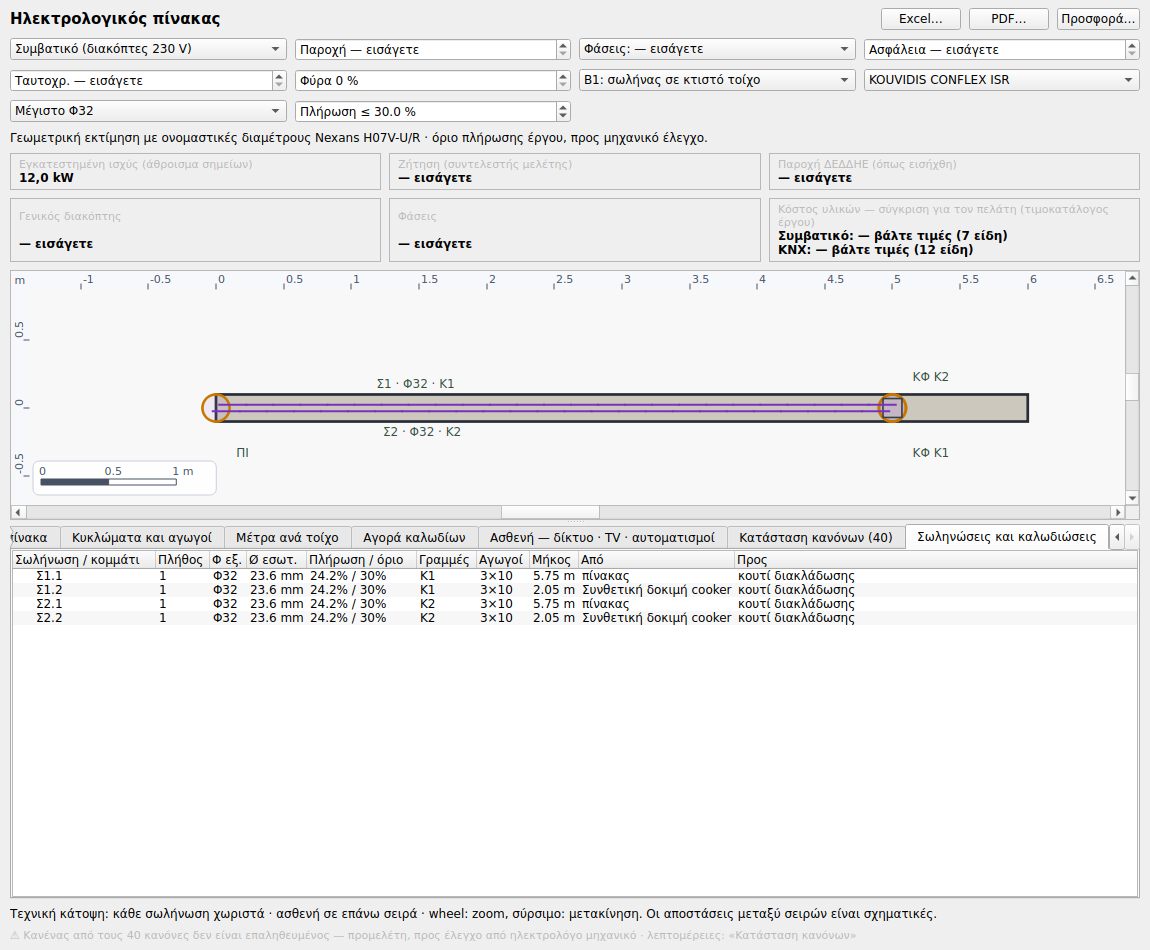
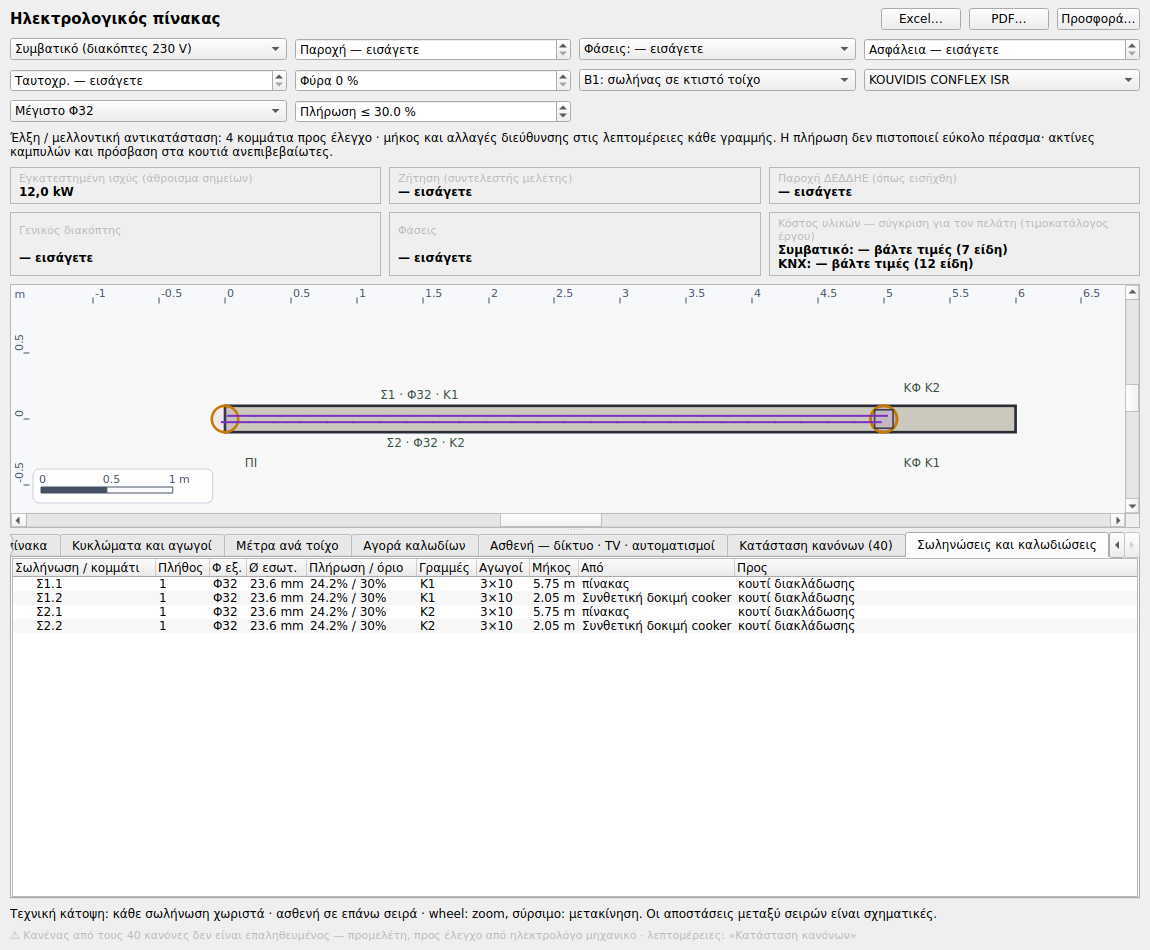
Separate geometric fill from pulling and future replacement review
Owner clarification: free space must support pulling and future replacement. Report model route length and 3D deflection per segment, explicitly unknown bend radii and access. Remove undocumented two-bend threshold: low fill is not a pulling certificate. Two regression failures before fix; targeted 13 passed, full final suite running. No physical pulling-force or code-compliance claim.

diff --git a/archforge/mep/conduits.py b/archforge/mep/conduits.py
@@ -9,7 +9,6 @@ from __future__ import annotations
 import math
 
 SIZES=(16,20,25,32,40,50)
-MAX_BENDS=2  # Existing study flag only; no capacity/count multiplier.
 OUTDOOR_MIN=50  # Existing underground study choice; not a verified code clause.
 OUTDOOR_SIZES=(50,63)
 RULE=('Γεωμετρική πλήρωση από εξωτερικές ονομαστικές διαμέτρους μονωμένων αγωγών Nexans H07V-U/R '
@@ -68,10 +67,33 @@ def _key(p):
     return (round(p[0], 3), round(p[1], 3), round(p[2], 3))
 
 
-def _direction(a, b):
-    d = [b[i] - a[i] for i in range(3)]
-    n = math.sqrt(sum(v * v for v in d)) or 1.0
-    return tuple(round(v / n, 6) for v in d)
+def pulling_review(points, *, label=''):
+    """Measured route geometry, not a pulling-force or replaceability certificate.
+
+    Model polylines have no installed bend radii, friction data, pulling-force
+    limits or confirmed access. No undocumented length/angle threshold turns
+    this into a pass. Repeated and collinear router vertices add no bend.
+    """
+    vectors=[];length=0.
+    for a,b in zip(points,points[1:]):
+        vector=tuple(float(y)-float(x) for x,y in zip(a,b))
+        distance=math.sqrt(sum(v*v for v in vector))
+        length+=distance
+        if distance>0:vectors.append(tuple(v/distance for v in vector))
+    angles=[]
+    for a,b in zip(vectors,vectors[1:]):
+        dot=max(-1.,min(1.,sum(x*y for x,y in zip(a,b))))
+        cross=(a[1]*b[2]-a[2]*b[1],a[2]*b[0]-a[0]*b[2],a[0]*b[1]-a[1]*b[0])
+        angle=math.degrees(math.atan2(math.sqrt(sum(v*v for v in cross)),dot))
+        if angle>1e-7:angles.append(angle)  # floating point noise only, not an installation limit
+    total=sum(angles)
+    summary=(f'{label+": " if label else ""}{length:.2f} m · {len(angles)} αλλαγές διεύθυνσης '
+             f'· άθροισμα {total:g}° — έλξη/αντικατάσταση προς έλεγχο. '
+             'Δεν έχουν επαληθευτεί ακτίνες καμπυλών, τριβές/όρια έλξης και πρόσβαση στα άκρα/κουτιά. '
+             'Η πλήρωση δεν πιστοποιεί εύκολη αντικατάσταση.')
+    return {'length_m':length,'turn_angles_deg':angles,'total_turn_deg':total,
+            'bend_radii_m':None,'accessibility_verified':False,
+            'replacement_status':'ENGINEER_REVIEW','summary':summary}
 
 
 def conduit_map(doc, route=None):
@@ -186,8 +208,8 @@ def conduit_map(doc, route=None):
                     pipe=bundle['pipe'];line_ids=pipe['lines'];wire_counts={}
                     for cid in line_ids:
                         for section,count in sections[cid].items():wire_counts[section]=wire_counts.get(section,0)+count
-                    directions=[_direction(a,b) for a,b in zip(chain,chain[1:])]
-                    bends=sum(a!=b for a,b in zip(directions,directions[1:]))
+                    pulling=pulling_review(chain,label=f'Σ{n}.{part}')
+                    bends=len(pulling['turn_angles_deg'])
                     selected=bundle['profile'];profile=CONDUIT_PROFILES[selected]
                     piece={'id':f'Σ{n}.{part}','conduit':f'Σ{n}','from':name_of(chain[0]),'to':name_of(chain[-1]),
                            'a':chain[0],'b':chain[-1],'points':chain,
@@ -199,10 +221,9 @@ def conduit_map(doc, route=None):
                            'lines':[cid if cid in circuits else 'επιστροφή διακόπτη' for cid in line_ids],
                            'conductors':' + '.join(f'{count}×{section:g}'.replace('.',',') for section,count in sorted(wire_counts.items())),
                            'wire_sources':{s:WIRE_DIAMETERS[s]['source'] for s in wire_counts},
-                           'status':'ENGINEER_REVIEW'}
+                           'pulling':pulling,'status':'ENGINEER_REVIEW'}
                     pieces.append(piece)
-                    if bends>MAX_BENDS:
-                        review.append(f"{piece['id']}: {bends} καμπύλες — έλεγχος έλξης/κουτιών, δεν δημιουργείται δεύτερος σωλήνας λόγω καμπυλών")
+                    review.append(pulling['summary'])
     by_size={}
     for p in pieces:by_size[p['dn']]=round(by_size.get(p['dn'],0)+p['length_m'],2)
     warnings=[f'{cid}: λείπει τεκμηριωμένη διάμετρος ή η γραμμή δεν χωρά στη μέγιστη επιλεγμένη διάμετρο'

diff --git a/tests/test_geometric_conduit_fill.py b/tests/test_geometric_conduit_fill.py
@@ -104,6 +104,8 @@ def test_board_limit_and_diameter_are_real_undoable_project_settings():
         w.stack.undo();tab.refresh();assert tab.result['conduit_map']['conduits']==2
         headers=[tab.conduits.headerItem().text(i) for i in range(tab.conduits.columnCount())]
         assert 'Πλήρωση / όριο' in headers and 'Ø εσωτ.' in headers
+        assert 'αντικατάσταση' in tab.pipe_note.text()
+        assert 'αλλαγές διεύθυνσης' in tab.conduits.topLevelItem(0).toolTip(7)
         before=w.doc.to_dict();tab.technical_plan.redraw();assert w.doc.to_dict()==before
     finally:
         w._mark_clean();w.close();app.processEvents()
@@ -117,3 +119,32 @@ def test_invalid_project_limit_is_rejected_without_changing_the_document():
         with pytest.raises(ValueError):
             stack.execute(AddEntity(Entity('electrical_point',dict(x=0,y=0,z=0,point_type='panel',conduit_fill_limit=value))))
         assert doc.to_dict()==before
+
+
+def test_pulling_review_reports_route_geometry_without_certifying_replacement():
+    from archforge.mep.conduits import pulling_review
+    # Synthetic route: collinear router vertices do not add bends; a 3D turn does.
+    r=pulling_review([(0,0,0),(1,0,0),(1,0,0),(2,0,0),(2,1,0),(2,1,1)])
+    assert r['length_m']==pytest.approx(4)
+    assert r['turn_angles_deg']==pytest.approx([90,90])
+    assert r['total_turn_deg']==pytest.approx(180)
+    assert r['replacement_status']=='ENGINEER_REVIEW'
+    assert r['bend_radii_m'] is None and r['accessibility_verified'] is False
+    assert 'αντικατάσταση' in r['summary']
+
+
+def test_low_fill_straight_conduit_still_needs_pulling_and_access_review():
+    from archforge.core.commands import AddEntity,CommandStack
+    from archforge.core.model import Document,Entity
+    from archforge.mep.conduits import conduit_map
+    doc=Document();st=CommandStack(doc)
+    for typ,x in [('panel',0),('socket',3)]:
+        st.execute(AddEntity(Entity('electrical_point',dict(x=x,y=0,z=0,point_type=typ))))
+    m=conduit_map(doc)
+    assert m['pieces'] and len(m['review'])==len(m['pieces'])
+    for p in m['pieces']:
+        assert p['fill']<p['fill_limit']
+        assert p['pulling']['replacement_status']=='ENGINEER_REVIEW'
+        assert p['pulling']['length_m']==pytest.approx(sum(__import__('math').dist(a,b)
+            for a,b in zip(p['points'],p['points'][1:])))
+        assert p['pulling']['summary'] in m['review']

diff --git a/archforge/ui/electrical_board_tab.py b/archforge/ui/electrical_board_tab.py
@@ -289,11 +289,13 @@ class BoardTab(QWidget):
             ids += [cid.split(':',1)[1] for cid in p['line_ids'] if cid.startswith('switch:')]
             item.setData(0,Qt.ItemDataRole.UserRole,ids)
             item.setToolTip(0,f"{p['profile_name']} · {p['profile_source']}\nΟι ίδιες σωληνώσεις εμφανίζονται στην κάτοψη, στο 3D και στην επιμέτρηση. Ονομαστικές διαστάσεις αγωγών· έλεγχος εγκατάστασης εκκρεμεί.")
+            for column in (0,4,7,8,9):
+                item.setToolTip(column,item.toolTip(column)+'\n'+p['pulling']['summary'])
             self.conduits.addTopLevelItem(item)
         if cmap['warnings']:
             self.warnings.setText(self.warnings.text()+'\n'+'\n'.join(cmap['warnings']))
         if cmap['review']:
-            self.pipe_note.setText(f"Γεωμετρική εκτίμηση με ονομαστικές διαμέτρους Nexans H07V-U/R · {len(cmap['review'])} κομμάτια χρειάζονται έλεγχο καμπυλών/έλξης. Το όριο έργου δεν είναι κανονιστική επαλήθευση.")
+            self.pipe_note.setText(f"Έλξη / μελλοντική αντικατάσταση: {len(cmap['review'])} κομμάτια προς έλεγχο · μήκος και αλλαγές διεύθυνσης στις λεπτομέρειες κάθε γραμμής. Η πλήρωση δεν πιστοποιεί εύκολο πέρασμα· ακτίνες καμπυλών και πρόσβαση στα κουτιά ανεπιβεβαίωτες.")
         else:
             self.pipe_note.setText('Γεωμετρική εκτίμηση με ονομαστικές διαμέτρους Nexans H07V-U/R · όριο πλήρωσης έργου, προς μηχανικό έλεγχο.')
 

diff --git a/archforge/ui/conduit_map.py b/archforge/ui/conduit_map.py
@@ -21,11 +21,18 @@ def show(window):
                   (f"{p['count']}×" if p["count"] > 1 else "") + f"Φ{p['dn']}" + (" διπλού δομ." if p["outdoor"] else ""),
                   f"{p['inner_mm']:g} mm", str(p["bends"]), ", ".join(p["lines"]), p["conductors"], f"{p['fill'] * 100:.1f}%", f"{p['fill_limit'] * 100:g}%", p["profile_name"])
         for j, v in enumerate(values):
-            table.setItem(i, j, QTableWidgetItem(v))
+            item=QTableWidgetItem(v)
+            item.setToolTip(p['pulling']['summary'])
+            table.setItem(i, j, item)
     table.resizeColumnsToContents()
     layout.addWidget(table)
-    for w in m["warnings"] + m["review"]:
+    for w in m["warnings"]:
         layout.addWidget(QLabel("⚠ " + w))
+    if m['review']:
+        note=QLabel(f"Έλξη / μελλοντική αντικατάσταση: {len(m['review'])} κομμάτια προς έλεγχο. "
+                    "Μήκος και αλλαγές διεύθυνσης στις λεπτομέρειες κάθε γραμμής. "
+                    "Η πλήρωση δεν πιστοποιεί εύκολο πέρασμα ή πρόσβαση στα κουτιά.")
+        note.setWordWrap(True);layout.addWidget(note)
     note = QLabel(m["rule"])
     note.setWordWrap(True)
     layout.addWidget(note)

diff --git a/docs/CONDUIT_GEOMETRIC_FILL.md b/docs/CONDUIT_GEOMETRIC_FILL.md
@@ -47,9 +47,24 @@
 διάμετρος αγωγού, εμφανίζεται ως μη διαστασιολογημένη· δεν παράγεται πλασματική σωλήνωση.
 Οι προειδοποιήσεις εμφανίζονται στον πίνακα και συνοδεύουν την τεκμηρίωση επιμέτρησης.
 
-Οι καμπύλες και η δυνατότητα έλξης είναι ξεχωριστός έλεγχος μελέτης. Πολλές καμπύλες δεν
-δημιουργούν από μόνες τους δεύτερο, άδειο σωλήνα. Ο παλιός δείκτης ελέγχου δύο καμπυλών
-παραμένει ως επισήμανση προς μελετητή, χωρίς αύξηση πλήθους ή αυτόματη δήλωση συμμόρφωσης.
+Ο ιδιοκτήτης διευκρίνισε ότι σκοπός του ελεύθερου χώρου είναι το εύκολο πέρασμα και η
+μελλοντική αντικατάσταση των γραμμών. Η πλήρωση από μόνη της δεν πιστοποιεί αυτές τις δυνατότητες.
+Σε **κάθε** κομμάτι καταγράφονται το γεωμετρικό μήκος, οι γωνίες αλλαγής διεύθυνσης στο 3D
+και το άθροισμά τους, μεταξύ των άκρων που προβλέπει ο χάρτης. Επαναλαμβανόμενοι ή συνευθειακοί
+κόμβοι του router δεν μετριούνται ως καμπύλες. Οι γωνίες είναι αλλαγές διεύθυνσης της πολυγραμμής,
+όχι πραγματικές εγκατεστημένες ακτίνες κάμψης ή υπολογισμός δύναμης έλξης.
+
+Η ένδειξη **έλξη / μελλοντική αντικατάσταση προς έλεγχο** εμφανίζεται ακόμη και για ευθύγραμμο,
+λίγο γεμάτο σωλήνα. Στις λεπτομέρειες κάθε γραμμής του υπάρχοντος πίνακα εμφανίζονται τα παραπάνω
+στοιχεία. Οι πραγματικές ακτίνες καμπυλών, τριβές/όρια έλξης και προσβασιμότητα των άκρων/κουτιών
+δεν έχουν επαληθευτεί. Δεν επιβάλλεται αυθαίρετο μέγιστο μήκος ή άθροισμα γωνιών. Καταργήθηκε
+η παλιά επισήμανση μόνο πάνω από δύο καμπύλες· δεν υπήρχε τεκμηρίωση για να θεωρούνται οι υπόλοιπες
+διαδρομές ελεγμένες. Πολλές καμπύλες δεν δημιουργούν από μόνες τους δεύτερο, άδειο σωλήνα.
+
+Η προτίμηση του ιδιοκτήτη για Φ16/Φ20/Φ25 σε τοίχους καταγράφεται ως πρακτική οικονομίας,
+όχι καθολικό κανονιστικό μέγιστο. Η τρέχουσα ρύθμιση μέγιστου Φ αφορά συνολικά το επιλεγμένο
+εσωτερικό προφίλ, όχι ξεχωριστό αυτόματο όριο για τοίχους/παροχές. Δεν υλοποιείται ακόμη
+βελτιστοποίηση συνολικού κόστους σωλήνων, συμβατών κουτιών/εξαρτημάτων και εργασίας.
 
 ## Πηγές διαστάσεων
 

diff --git a/docs/HANDOFF.md b/docs/HANDOFF.md
@@ -1,5 +1,13 @@
 # Πραγματική γεωμετρική πλήρωση σωληνώσεων 30% (24/10/2026, #147)
 
+- Νεότερη διευκρίνιση ιδιοκτήτη: ζητούμενο εύκολη έλξη και μελλοντική αντικατάσταση, όχι μόνο χωρητικότητα.
+  Κάθε piece διαθέτει pulling review: πραγματικό μήκος πολυγραμμής, γωνίες αλλαγής διεύθυνσης/άθροισμα,
+  ENGINEER_REVIEW ανεξαρτήτως πλήρωσης. Χωρίς εικονική πιστοποίηση πρόσβασης κουτιών ή ακτίνων/τριβών.
+  Αφαιρέθηκε ο παλιός αυθαίρετος δείκτης >2 καμπυλών. Λεπτομέρειες στο tooltip υπάρχοντος πίνακα/χάρτη.
+  Δύο νέες regression περιπτώσεις απέτυχαν πριν τη διόρθωση· 13 στοχευμένες πέρασαν μετά.
+  Η προτίμηση Φ25 στους τοίχους δεν έγινε υποχρεωτικό μέγιστο ούτε αυτόματη αλλαγή προφίλ προϊόντος.
+  Δεν υπάρχει ακόμη μελέτη δυνάμεων έλξης/ακτίνων, επιβεβαίωση πρόσβασης ή πλήρης οικονομική σύγκριση.
+
 - Ο ιδιοκτήτης διευκρίνισε: δεύτερος/τρίτος σωλήνας όταν δεν χωρούν οι αγωγοί, με συνυπολογισμό διαμέτρου.
   Στην ερώτηση επιλογής ορίου διάλεξε ρητά **30%**. Είναι όριο έργου / DESIGN_DEFAULT, όχι επαληθευμένη διάταξη κανονισμού.
 - Το #146 (όδευση δάπεδο/οροφή/περιμετρικά) έγινε merge στο develop `8ceaddd924aabfc7d5fe28730557a673b6f741db`.
